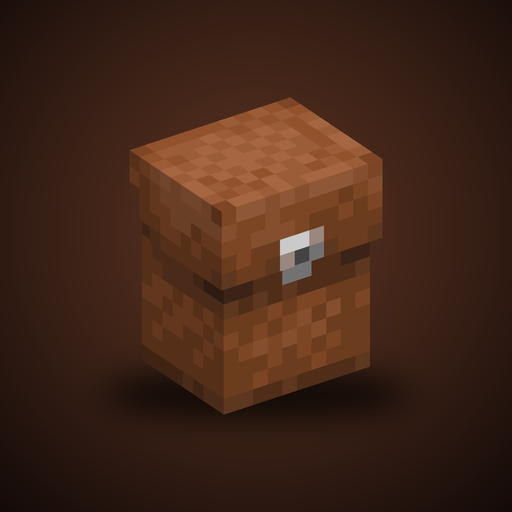
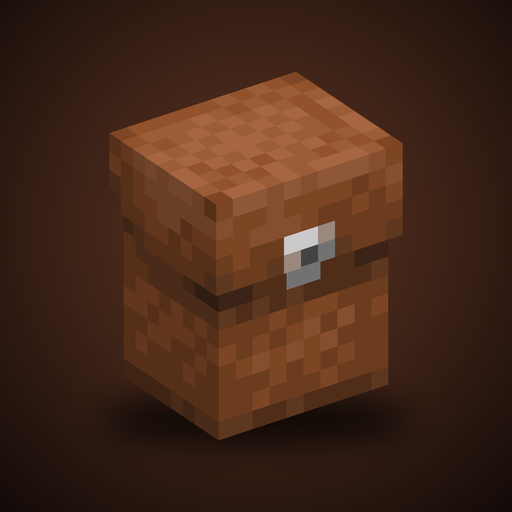
feat: add backpack item and related assets; update README and creative tabs

diff --git a/src/main/java/com/backpacksrefined/platform/ChestWearableItem.java b/src/main/java/com/backpacksrefined/platform/ChestWearableItem.java
@@ -1,0 +1,78 @@
+package com.backpacksrefined.platform;
+
+import net.minecraft.resources.Identifier;
+import net.minecraft.world.entity.EquipmentSlot;
+import net.minecraft.world.item.Item;
+//? if >=1.21.2 {
+import net.minecraft.core.component.DataComponents;
+import net.minecraft.core.registries.Registries;
+import net.minecraft.resources.ResourceKey;
+import net.minecraft.sounds.SoundEvents;
+import net.minecraft.world.item.equipment.Equippable;
+//?} else {
+/*import net.minecraft.sounds.SoundEvent;
+import net.minecraft.sounds.SoundEvents;
+import net.minecraft.world.InteractionHand;
+import net.minecraft.world.InteractionResultHolder;
+import net.minecraft.world.entity.player.Player;
+import net.minecraft.world.item.Equipable;
+import net.minecraft.world.item.ItemStack;
+import net.minecraft.world.level.Level;
+*///?}
+//? if >=1.20.5 && <1.21.2 {
+/*import net.minecraft.core.Holder;
+*///?}
+
+/**
+ * An item worn in the chest slot, as a chestplate is: the armor slot takes it, and using it swaps it
+ * with what is worn there. 1.21.2 made being worn a component of the item; before, the item
+ * implemented {@code Equipable}.
+ */
+public class ChestWearableItem extends Item
+        //? if <1.21.2 {
+        /*implements Equipable
+        *///?}
+{
+    public ChestWearableItem(Identifier id, Properties properties) {
+        super(worn(id, properties));
+    }
+
+    private static Properties worn(Identifier id, Properties properties) {
+        //? if >=1.21.2 {
+        // From 1.21.2 an item knows its own id before it is registered.
+        return properties
+                .setId(ResourceKey.create(Registries.ITEM, id))
+                .component(DataComponents.EQUIPPABLE, Equippable.builder(EquipmentSlot.CHEST)
+                        .setEquipSound(SoundEvents.ARMOR_EQUIP_WOLF)
+                        .build());
+        //?} else {
+        /*return properties;
+        *///?}
+    }
+
+    //? if <1.21.2 {
+    /*@Override
+    public EquipmentSlot getEquipmentSlot() {
+        return EquipmentSlot.CHEST;
+    }
+
+    @Override
+    public InteractionResultHolder<ItemStack> use(Level level, Player player, InteractionHand hand) {
+        return swapWithEquipmentSlot(this, level, player, hand);
+    }
+    *///?}
+
+    // The wolf armor sound came in 1.20.5, as a holder.
+    //? if >=1.20.5 && <1.21.2 {
+    /*@Override
+    public Holder<SoundEvent> getEquipSound() {
+        return SoundEvents.ARMOR_EQUIP_WOLF;
+    }
+    *///?}
+    //? if <1.20.5 {
+    /*@Override
+    public SoundEvent getEquipSound() {
+        return SoundEvents.ARMOR_EQUIP_LEATHER;
+    }
+    *///?}
+}

diff --git a/src/main/forge/java/com/backpacksrefined/forge/BackpacksRefinedForge.java b/src/main/forge/java/com/backpacksrefined/forge/BackpacksRefinedForge.java
@@ -2,9 +2,16 @@ package com.backpacksrefined.forge;
 
 import com.backpacksrefined.BackpacksRefined;
 import com.backpacksrefined.client.forge.BackpacksRefinedForgeClient;
+import com.backpacksrefined.item.BackpacksItems;
+import net.minecraft.core.registries.Registries;
+import net.minecraft.world.item.CreativeModeTabs;
 import net.minecraftforge.api.distmarker.Dist;
+import net.minecraftforge.eventbus.api.IEventBus;
+import net.minecraftforge.event.BuildCreativeModeTabContentsEvent;
 import net.minecraftforge.fml.common.Mod;
+import net.minecraftforge.fml.javafmlmod.FMLJavaModLoadingContext;
 import net.minecraftforge.fml.loading.FMLEnvironment;
+import net.minecraftforge.registries.RegisterEvent;
 
 /**
  * The Forge mod class. Forge 47 has no client-only mod class, so the client half is started from here,
@@ -14,6 +21,12 @@ import net.minecraftforge.fml.loading.FMLEnvironment;
 public final class BackpacksRefinedForge {
     public BackpacksRefinedForge() {
         BackpacksRefined.initialize();
+        IEventBus modBus = FMLJavaModLoadingContext.get().getModEventBus();
+        modBus.addListener((RegisterEvent event) ->
+                event.register(Registries.ITEM, helper -> BackpacksItems.register(helper::register)));
+        modBus.addListener((BuildCreativeModeTabContentsEvent event) -> {
+            if (event.getTabKey() == CreativeModeTabs.TOOLS_AND_UTILITIES) event.accept(BackpacksItems.backpack());
+        });
         if (FMLEnvironment.dist == Dist.CLIENT) BackpacksRefinedForgeClient.initialize();
     }
 }

diff --git a/src/main/java/com/backpacksrefined/item/BackpacksItems.java b/src/main/java/com/backpacksrefined/item/BackpacksItems.java
@@ -1,0 +1,30 @@
+package com.backpacksrefined.item;
+
+import com.backpacksrefined.BackpacksRefined;
+import net.minecraft.resources.Identifier;
+import net.minecraft.world.item.Item;
+
+import java.util.function.BiConsumer;
+
+/**
+ * The mod's items. Each loader's mod class calls {@link #register} at the point its loader takes new
+ * items, which is at startup on Fabric and in the registry event on NeoForge and Forge.
+ */
+public final class BackpacksItems {
+    public static final Identifier BACKPACK_ID = BackpacksRefined.id("backpack");
+
+    private static Item backpack;
+
+    private BackpacksItems() { }
+
+    /** Builds every item and hands it to {@code registry} under its id. */
+    public static void register(BiConsumer<Identifier, Item> registry) {
+        backpack = new BackpackItem(BACKPACK_ID, new Item.Properties().stacksTo(1).fireResistant());
+        registry.accept(BACKPACK_ID, backpack);
+    }
+
+    public static Item backpack() {
+        if (backpack == null) throw new IllegalStateException("Items are not registered yet");
+        return backpack;
+    }
+}

diff --git a/src/main/neoforge/java/com/backpacksrefined/neoforge/BackpacksRefinedNeoForge.java b/src/main/neoforge/java/com/backpacksrefined/neoforge/BackpacksRefinedNeoForge.java
@@ -1,13 +1,23 @@
 package com.backpacksrefined.neoforge;
 
 import com.backpacksrefined.BackpacksRefined;
+import com.backpacksrefined.item.BackpacksItems;
+import net.minecraft.core.registries.Registries;
+import net.minecraft.world.item.CreativeModeTabs;
 import net.neoforged.bus.api.IEventBus;
 import net.neoforged.fml.common.Mod;
+import net.neoforged.neoforge.event.BuildCreativeModeTabContentsEvent;
+import net.neoforged.neoforge.registries.RegisterEvent;
 
 /** The NeoForge mod class. Everything it starts is loader independent. */
 @Mod(BackpacksRefined.MOD_ID)
 public final class BackpacksRefinedNeoForge {
     public BackpacksRefinedNeoForge(IEventBus modBus) {
         BackpacksRefined.initialize();
+        modBus.addListener((RegisterEvent event) ->
+                event.register(Registries.ITEM, helper -> BackpacksItems.register(helper::register)));
+        modBus.addListener((BuildCreativeModeTabContentsEvent event) -> {
+            if (event.getTabKey() == CreativeModeTabs.TOOLS_AND_UTILITIES) event.accept(BackpacksItems.backpack());
+        });
     }
 }

diff --git a/src/main/fabric/java/com/backpacksrefined/platform/CreativeTabs.java b/src/main/fabric/java/com/backpacksrefined/platform/CreativeTabs.java
@@ -1,0 +1,26 @@
+package com.backpacksrefined.platform;
+
+import net.minecraft.world.item.CreativeModeTabs;
+import net.minecraft.world.level.ItemLike;
+//? if >=26.1 {
+import net.fabricmc.fabric.api.creativetab.v1.CreativeModeTabEvents;
+//?} else {
+/*import net.fabricmc.fabric.api.itemgroup.v1.ItemGroupEvents;
+*///?}
+
+import java.util.function.Supplier;
+
+/** Fabric API's creative tab events, which 26.1 renamed to Minecraft's own names. */
+public final class CreativeTabs {
+    private CreativeTabs() { }
+
+    public static void addToTools(Supplier<? extends ItemLike> item) {
+        //? if >=26.1 {
+        CreativeModeTabEvents.modifyOutputEvent(CreativeModeTabs.TOOLS_AND_UTILITIES)
+                .register(output -> output.accept(item.get()));
+        //?} else {
+        /*ItemGroupEvents.modifyEntriesEvent(CreativeModeTabs.TOOLS_AND_UTILITIES)
+                .register(entries -> entries.accept(item.get()));
+        *///?}
+    }
+}

diff --git a/src/main/fabric/java/com/backpacksrefined/fabric/BackpacksRefinedFabric.java b/src/main/fabric/java/com/backpacksrefined/fabric/BackpacksRefinedFabric.java
@@ -1,12 +1,18 @@
 package com.backpacksrefined.fabric;
 
 import com.backpacksrefined.BackpacksRefined;
+import com.backpacksrefined.item.BackpacksItems;
+import com.backpacksrefined.platform.CreativeTabs;
 import net.fabricmc.api.ModInitializer;
+import net.minecraft.core.Registry;
+import net.minecraft.core.registries.BuiltInRegistries;
 
 /** The Fabric {@code main} entrypoint. Everything it starts is loader independent. */
 public final class BackpacksRefinedFabric implements ModInitializer {
     @Override
     public void onInitialize() {
         BackpacksRefined.initialize();
+        BackpacksItems.register((id, item) -> Registry.register(BuiltInRegistries.ITEM, id, item));
+        CreativeTabs.addToTools(BackpacksItems::backpack);
     }
 }

diff --git a/src/main/java/com/backpacksrefined/item/BackpackItem.java b/src/main/java/com/backpacksrefined/item/BackpackItem.java
@@ -1,0 +1,17 @@
+package com.backpacksrefined.item;
+
+import com.backpacksrefined.platform.ChestWearableItem;
+import net.minecraft.resources.Identifier;
+
+/** The backpack: worn in the chest slot, swapped on with a right click. */
+public class BackpackItem extends ChestWearableItem {
+    public BackpackItem(Identifier id, Properties properties) {
+        super(id, properties);
+    }
+
+    /** A backpack holds items of its own, so it never goes inside a bundle. */
+    @Override
+    public boolean canFitInsideContainerItems() {
+        return false;
+    }
+}

diff --git a/tools/scripts/logo/render.py b/tools/scripts/logo/render.py
@@ -64,7 +64,7 @@ for e in d['elements']:
 pts = np.array([p for _, o, S, Tv, _ in faces for p in (o, o + S, o + Tv, o + S + Tv)])
 mn, mx = pts[:, :2].min(0), pts[:, :2].max(0)
 N = 2048
-scale = N * 0.62 / (mx - mn).max()
+scale = N * 0.72 / (mx - mn).max()
 off = N / 2 - (mn + mx) / 2 * scale
 
 img = np.zeros((N, N, 4), np.float32)

diff --git a/README.md b/README.md
@@ -4,7 +4,7 @@
 
 # Backpacks Refined
 
-A simple, immersive backpack mod for **Fabric**, **NeoForge** and **Forge**.
+A simple, immersive backpack mod.
 
 </div>
 
